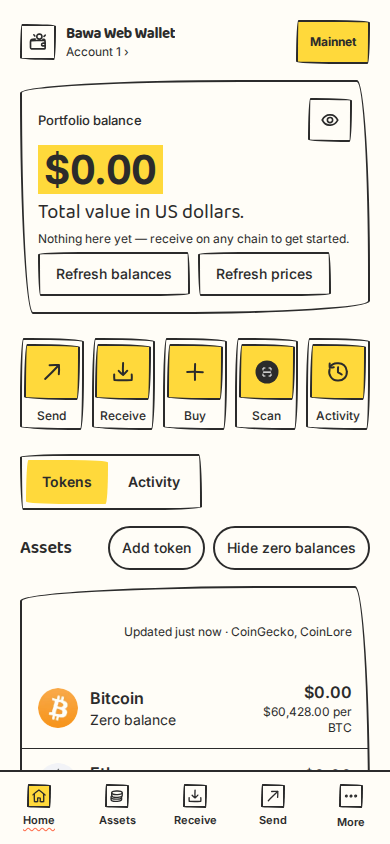
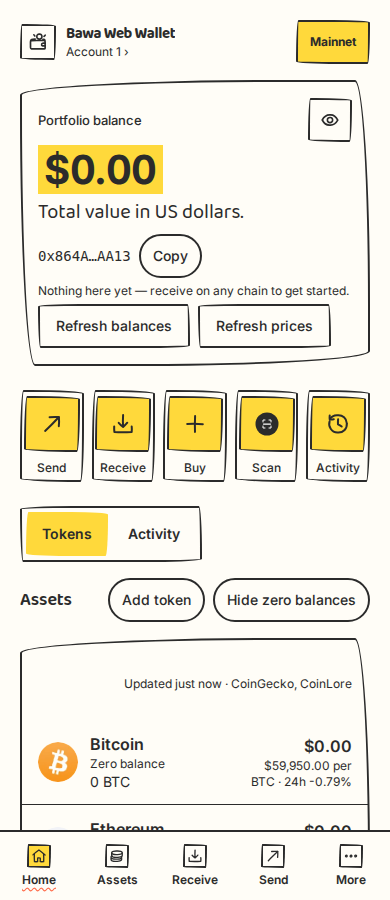
Docs currency (Lane 1 README): 3,216 checks, P0 + style B, re-shot dashboard, FULL manual fixes

Changed region(s): [[0.0, 0.0, 1.0, 1.0], [0.7385, 0.0, 0.9538, 0.2773], [0.0308, 0.7085, 0.0923, 0.7393]]

diff --git a/README.md b/README.md
@@ -17,7 +17,7 @@ How it fits together — the full box-by-box trace is in [How Bawa works](docs/H
 
 **[Try the example wallet live](https://pr3eve6ti2o.github.io/bawa)** — no install, no clone. It serves the latest build of this branch.
 
-**87 chains** in the example wallet (22 enabled by default) · **168 chains** in the guide · **21 default tokens** · **440 checks** passing in a clean clone · **0 funds ever sent** — broadcast stays disabled.
+**87 chains** in the example wallet (22 enabled by default) · **168 chains** in the guide · **21 default tokens** · **3,216 checks** passing in a clean clone · **0 funds ever sent** — broadcast stays disabled.
 
 ## Showcase
 
@@ -106,10 +106,12 @@ All register-links checks passed
 The web wallet in `apps/web` is a fully functional example wallet built using this guide. It runs entirely in the browser: create or import a wallet, add a watch-only wallet, and see real balances. Broadcast stays disabled, so it cannot send funds.
 
 - Create, import (24/25 words) and watch-only wallets; multiple accounts from one phrase; bulk account creation.
-- 22 native assets plus 21 default tokens (43 rows), with live prices.
+- 22 native assets plus 21 default tokens (43 rows), with live prices and 24h change on every row.
+- The dashboard hero shows the wallet's primary address with a one-tap Copy button (flips to "Copied!" for 2 s).
 - Receive with a QR card — three QR modes (address, payment request, share link) and seven card templates — plus copy and share.
 - Add Token adds a token by contract address, and can enable any of the 87 chains.
 - Send walks through a stepped flow, but broadcast stays disabled, so nothing is ever sent.
+- Buy lists Ramp, MoonPay, Onramper, Banxa, Transak, Mercuryo and Coinbase on Receive — but none is set up yet, and each row says so plainly; no provider key has been configured. Swap shows live quotes only (LI.FI, STON.fi); swap execution is not implemented and broadcast stays disabled.
 
 To run it, follow [docs/CREATE-EXAMPLE-WALLET.md](docs/CREATE-EXAMPLE-WALLET.md). To understand how it fits together, read [How Bawa works](docs/HOW-IT-WORKS.md) — two Mermaid diagrams (how it starts, what it can do), each box traced to a real file.
 
@@ -174,6 +176,8 @@ Use the starters:
 ![Bawa Balanced UI direction for builder output](docs/ui-ux-assets/direction-04-bawa-balanced.png)
 
 *Bawa Balanced UI direction for builder output — not a screenshot of the running starter.*
+
+Design direction (owner decision, 2026-11-27): style B — polished financial style everywhere, illustration only for brand moments (the QR share-card templates, the Welcome illustration), with a tiny fraction of the paper/comic theme kept. The P0 build live now is the first style-B pass; the full restyle is in progress on this branch, and the design system ([docs/DESIGN-SYSTEM.md](docs/DESIGN-SYSTEM.md)) is being reworked to style B alongside it.
 
 ## Security and honest limits
 
@@ -240,5 +244,9 @@ Recent programmes, each with its full record, gates and branch state in `docs/`:
 - **Token Verify programme (2026-11-24)** — token verification by contract address, new-chains bug hunt, bundle gate kept under budget, npm audit 9 → 0, all 28 icon-less chains get real icons; merged into `token-gaps` (commit `7f12de4`); Pages republished from the final tip. Record: [docs/TOKEN-VERIFY-PROGRAMME.md](docs/TOKEN-VERIFY-PROGRAMME.md).
 - **CI budget align (2026-11-25)** — CI bundle budget aligned to `CONSTRAINTS.md` (4,177,711); merged into `token-gaps` (commit `6a91cbd`). Superseded the same day by the owner-ordered re-baseline below.
 - **Bundle budget re-baseline (2026-11-25)** — budget re-baselined to 4,650,000 by owner order; merged tree measures 4,648,952 total JS, passing by 1,048 bytes (commit `7a170f4`). Record: [docs/DECISIONS.md](docs/DECISIONS.md) §27.
+- **Providers programme (2026-11-26)** — WalletConnect fully removed; Buy picker on Receive (Ramp, MoonPay, Onramper, Banxa, Transak, Mercuryo, Coinbase — none set up yet, no key invented); Swaps button with gas.zip refuel and Relay quotes-first; STON.fi as the TON corridor (SDK 0.8.13, live quote on screen); LI.FI stays as the broadest aggregator; merged into `token-gaps` (commit `e9d3d3d`). Swap execution is not implemented and broadcast stays disabled.
+- **Bundle budget re-baseline to 6,000,000 (2026-11-26)** — budget re-baselined to 6,000,000 by owner order (commit `2a0fa75`); the P0 build below measures 4,473,583 total JS. Record: [docs/DECISIONS.md](docs/DECISIONS.md).
+- **Desktop-layout merge + bug hunt (2026-11-27)** — desktop layout merged into `token-gaps` (merge commit `34849a2`, then `b65e8c3`); full-repo bug hunt, 69 findings fixed (commit `7efba14`); Android registry export (commit `58d85c5`).
+- **UI/UX style-B P0 build (2026-11-27)** — hero Copy button, 24h change on asset rows, no-wallet $0.00 rows hidden on /assets, /create hub deleted, Welcome shortened to one headline + one line + two cards, one error pattern everywhere (reason + gated Retry), Wallets desktop grid fixed at 1280 px, tx-detail resolves any real hash; merged into `token-gaps` (commit `33f1ff1`); live on GitHub Pages (Pages `4d8a98f`, serving `index-Bri-_XH1.js`). Gates at the push: typecheck 0, lint 0, build 0, vitest 3,216 passed + 5 skipped, diagram test 5/5, bundle 4,473,583 / 6,000,000.
 
-No code from these programmes was merged into `adopt-proper`. Lanes E and F (captcha generalisation, FuckCaptcha guides) merged into `main` at `7f9d364`. The durable preview (GitHub Pages) serves the latest `token-gaps` build; to preview this branch, check out `panel-rebuild/token-gaps` and run the web starter locally.
+No code from these programmes was merged into `adopt-proper`. Lanes E and F (captcha generalisation, FuckCaptcha guides) merged into `main` at `7f9d364`. The durable preview (GitHub Pages) serves the latest `token-gaps` build — currently the P0 build (`33f1ff1`); to preview this branch, check out `panel-rebuild/token-gaps` and run the web starter locally.
